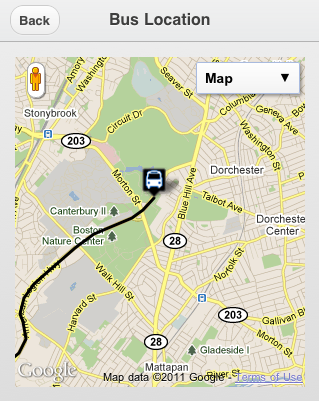
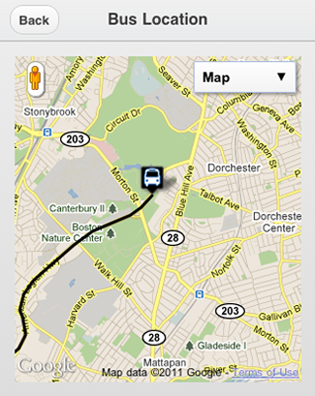
rounded corners to screenshot image and edited spacing

diff --git a/public/stylesheets/application.css b/public/stylesheets/application.css
@@ -82,7 +82,8 @@ ul.list-tick li {
 }
 .screenshot {
   float: left;
-  margin: 58px 22px 100px 0px;
+  margin: 109px 23px 98px 0px;
+  border-radius: 7px;
 }
 
 .splash_info {
